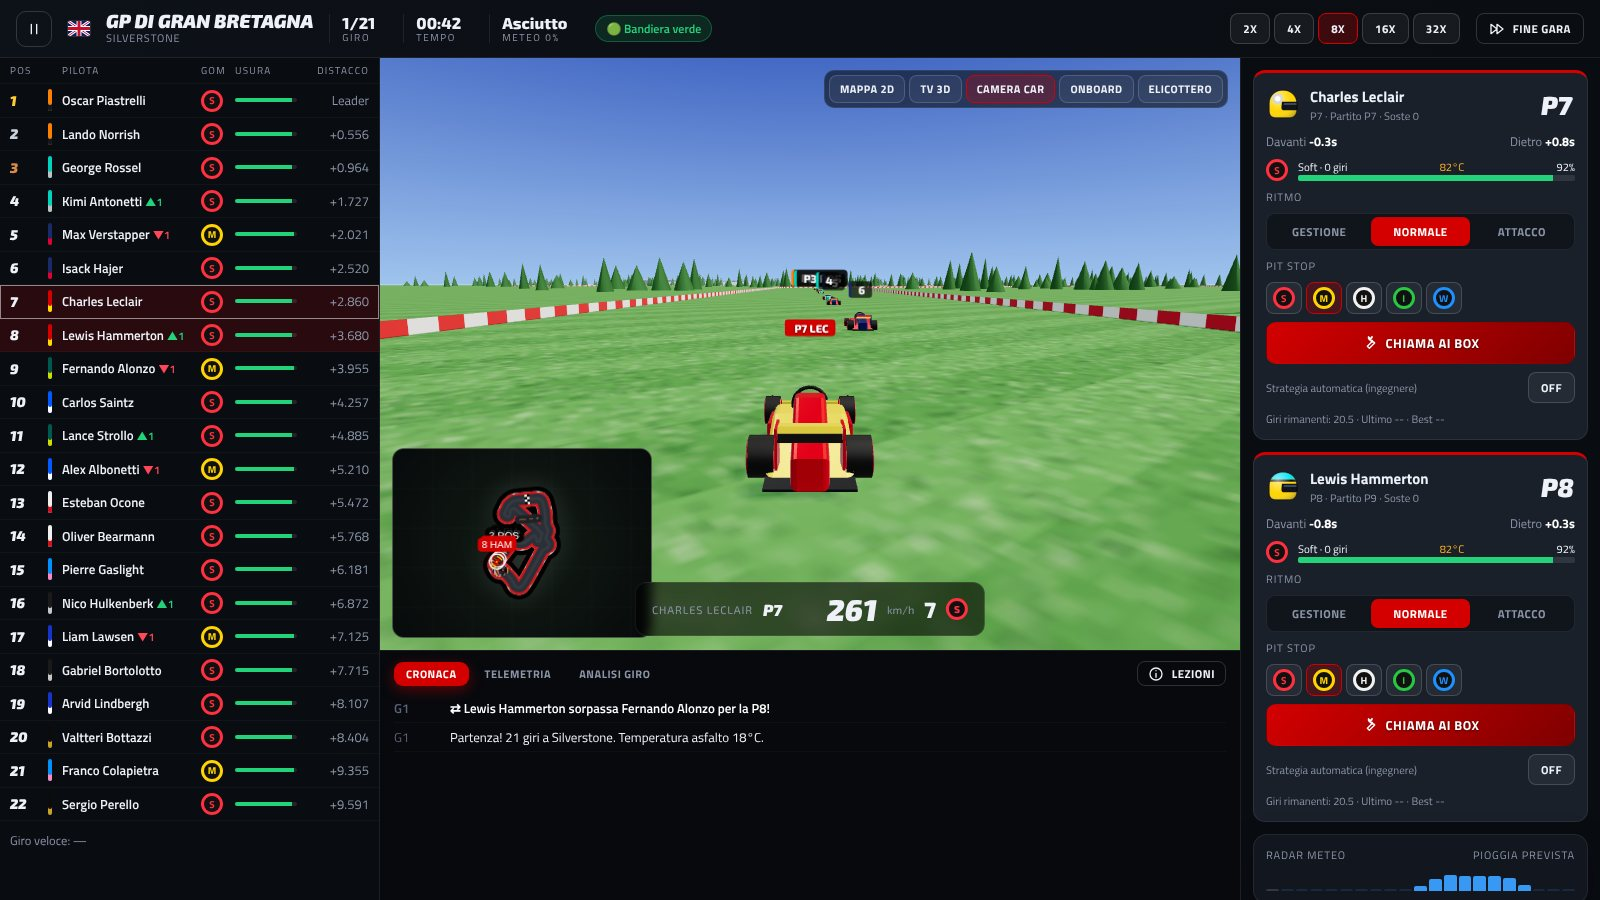
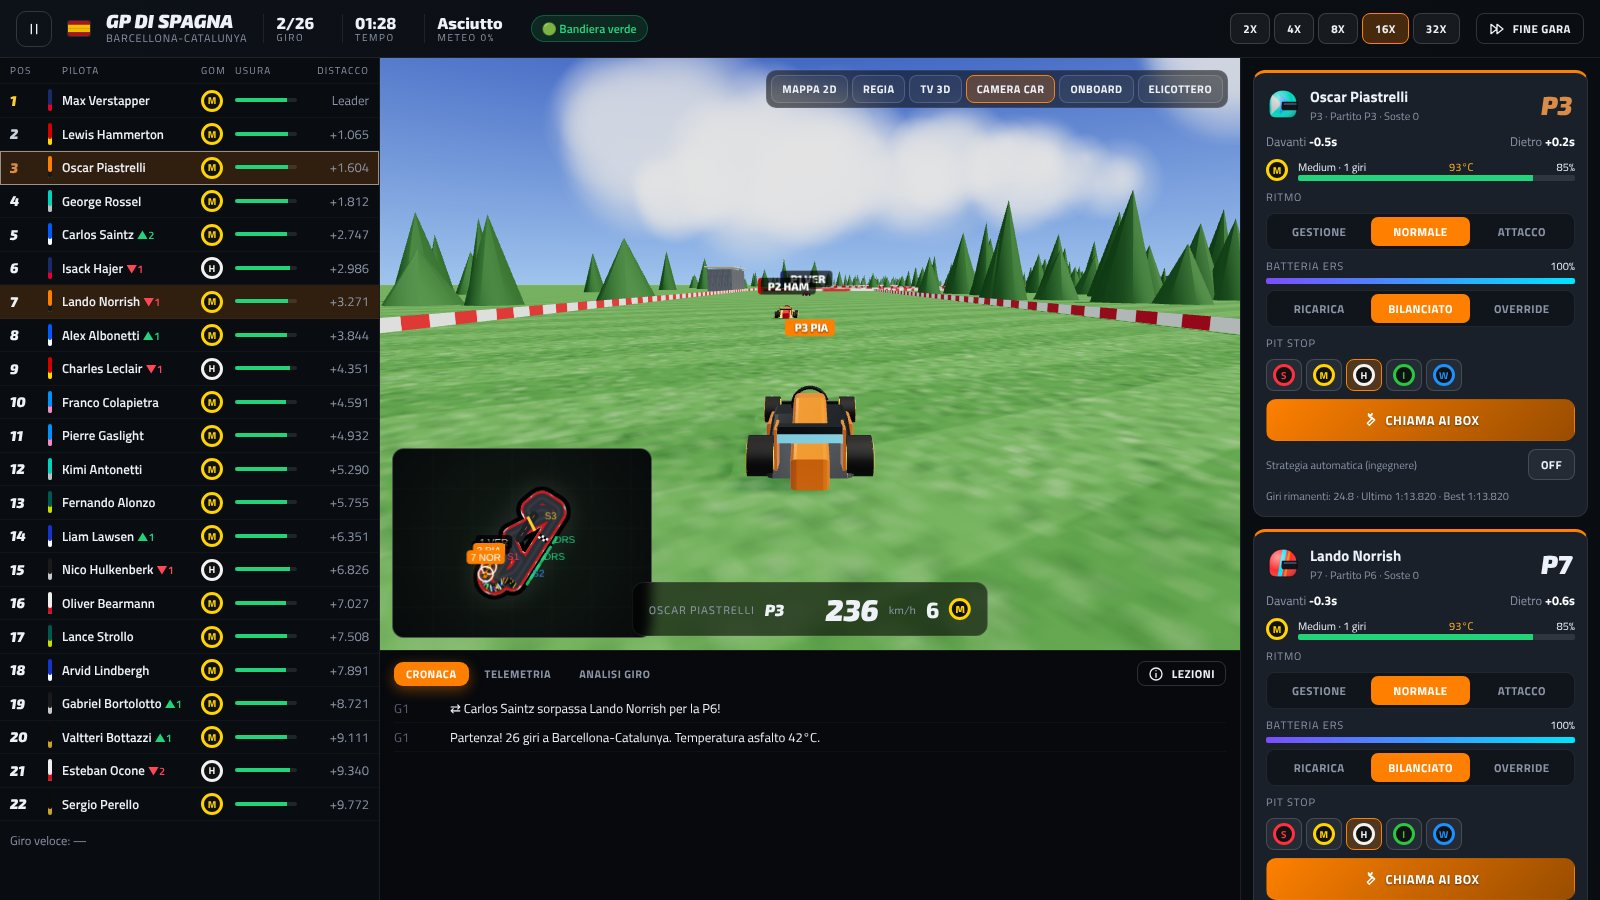
3D: auto affiancate nei duelli invece di sovrapporsi
Claude-Session: https://claude.ai/code/session_016m2WYSifcgJTzz2tKjj853

diff --git a/src/ui/race3d.js b/src/ui/race3d.js
@@ -427,7 +427,7 @@ export class Race3D {
       const i0 = this.open ? Math.min(N - 2, Math.max(0, Math.floor(s))) : Math.floor(s) % N, i1 = this.open ? i0 + 1 : (i0 + 1) % N, f = this.open ? Math.min(1, Math.max(0, s - i0)) : s - Math.floor(s);
       let hd = this.geo.hdg[i1] - this.geo.hdg[i0]; while (hd > Math.PI) hd -= 2 * Math.PI; while (hd < -Math.PI) hd += 2 * Math.PI;
       const h = this.geo.hdg[i0] + hd * f;
-      let lane = st.inPit ? this.TW / 2 + 10 : (this.line ? this.line[i0] : 0) + car.lane * (st.close ? 0.9 : 0.25);
+      let lane = st.inPit ? this.TW / 2 + 10 : (this.line ? this.line[i0] * (st.close ? 0.4 : 1) : 0) + (st.close && st.pos ? (st.pos % 2 ? 2.4 : -2.4) : car.lane * 0.25);
       car.laneCur = car.laneCur == null ? lane : car.laneCur + (lane - car.laneCur) * Math.min(1, dt * 6);
       const nx = -Math.sin(h), nz = Math.cos(h);
       const x = this.geo.x[i0] + (this.geo.x[i1] - this.geo.x[i0]) * f + nx * car.laneCur;

diff --git a/src/screens/weekend.js b/src/screens/weekend.js
@@ -256,7 +256,7 @@ function qualiView(st, tr) {
 // ---------------- RACE ----------------
 document.addEventListener('mousedown', () => { R.holding = true; });
 document.addEventListener('mouseup', () => { setTimeout(() => { R.holding = false; }, 30); });
-const R = { sim: null, view: null, raf: 0, speed: 8, paused: false, last: 0, uiT: 0, pitSel: {}, swap: {}, feedN: 0, lastEvt: 0 };
+const R = window.__race = { sim: null, view: null, raf: 0, speed: 8, paused: false, last: 0, uiT: 0, pitSel: {}, swap: {}, feedN: 0, lastEvt: 0 };
 
 function raceScreen(st) {
   const tr = getTrack(st.category, st.weekend.trackId);
